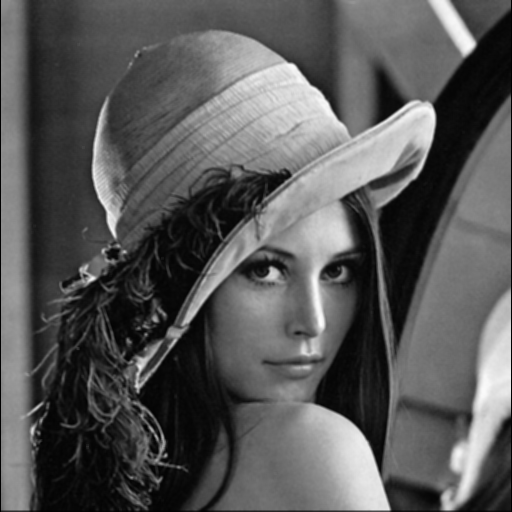
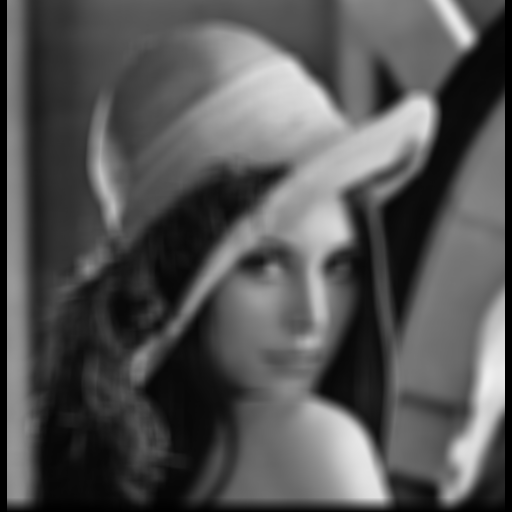
The Low Pass Filter has dynamic kernel filter size

diff --git a/LowPass.cpp b/LowPass.cpp
@@ -7,16 +7,16 @@
 using namespace cv;
 using namespace std;
 
-// #define RUN_SEQUENTIAL
+#define RUN_SEQUENTIAL
 // #define RUN_OPENMP
-#define RUN_MPI
+// #define RUN_MPI
 
 #ifdef RUN_SEQUENTIAL
 
 int main() {
 
     // Put the path of the image
-    Mat image = imread("lena.png", IMREAD_GRAYSCALE);  
+    Mat image = imread("D:/Projects/Parallel Low Pass Filter/lena.png", IMREAD_GRAYSCALE);  
     
     // Check if the image was loaded successfully
     if (image.empty()) {
@@ -25,15 +25,18 @@ int main() {
     }
 
     Mat output = image.clone();
-    int kernel[3][3] = {
-        {1, 1, 1},
-        {1, 1, 1},
-        {1, 1, 1}
-    };
 
-    int kSize = 3;
-    int kernelSum = 9;
+    int kSize;
+
+    do {
+        cout << "Enter odd kernel size : ";
+        cin >> kSize;
+    } 
+    while (kSize % 2 == 0 || kSize < 3);
+
     int pad = kSize / 2;
+    int kernelSum = kSize * kSize;
+
 
     for (int i = pad; i < image.rows - pad; ++i) {
         for (int j = pad; j < image.cols - pad; ++j) {
@@ -62,7 +65,7 @@ int main() {
 int main() {
 
     // Put the path of the image
-    Mat image = imread("lena.png", IMREAD_GRAYSCALE);
+    Mat image = imread("D:/Projects/Parallel Low Pass Filter/lena.png", IMREAD_GRAYSCALE);
 
     if (image.empty()) {
         cout << "Error: Could not open or find the image!" << endl;
@@ -70,13 +73,17 @@ int main() {
     }
 
     Mat output = image.clone();
-    int kernel[3][3] = {
-        {1, 1, 1},
-        {1, 1, 1},
-        {1, 1, 1}
-    };
 
-    int kSize = 3, pad = kSize / 2, kernelSum = 9;
+    int kSize;
+
+    do {
+        cout << "Enter odd kernel size : ";
+        cin >> kSize;
+    } while (kSize % 2 == 0 || kSize < 3);
+
+    int pad = kSize / 2;
+    int kernelSum = kSize * kSize;
+
 
 #pragma omp parallel for
 
@@ -109,16 +116,30 @@ int main(int argc, char** argv) {
     MPI_Comm_size(MPI_COMM_WORLD, &size);
 
     Mat image;
+    int kSize = 3;  // Default kernel size
+
     if (rank == 0) {
+        do {
+            cout << "Enter odd kernel size : ";
+            cin >> kSize;
+
+        } while (kSize % 2 == 0 || kSize < 3);
         
-        // Put the path of the image
-        image = imread("D:/Programming Practice/C++/High Preformance Computing/Parallel Low Pass Filter/lena.png", IMREAD_GRAYSCALE);
+
+        // Load the image in grayscale
+        image = imread("D:/Projects/Parallel Low Pass Filter/lena.png", IMREAD_GRAYSCALE);
         if (image.empty()) {
-            cout << "Error: Image not loaded!" << endl ;
+            cout << "Error: Image not loaded!" << endl;
             MPI_Abort(MPI_COMM_WORLD, -1);
         }
     }
 
+    // Broadcast the kernel size to all processes
+    MPI_Bcast(&kSize, 1, MPI_INT, 0, MPI_COMM_WORLD);
+    int pad = kSize / 2;
+    int kernelSum = kSize * kSize;
+
+    // Broadcast image dimensions
     int rows = 0, cols = 0;
     if (rank == 0) {
         rows = image.rows;
@@ -128,9 +149,7 @@ int main(int argc, char** argv) {
     MPI_Bcast(&cols, 1, MPI_INT, 0, MPI_COMM_WORLD);
 
     int local_rows = rows / size;
-    int pad = 1;
     int local_data_size = (local_rows + 2 * pad) * cols;
-
     vector<uchar> local_data(local_data_size);
     vector<uchar> result_data(local_rows * cols);
 
@@ -163,7 +182,7 @@ int main(int argc, char** argv) {
                     sum += local_data[idx];
                 }
             }
-            result_data[(i - pad) * cols + j] = sum / 9;
+            result_data[(i - pad) * cols + j] = sum / kernelSum;
         }
     }
 
@@ -177,7 +196,7 @@ int main(int argc, char** argv) {
     if (rank == 0) {
         Mat blurred(rows, cols, CV_8UC1, full_result.data());
         imwrite("blurred_mpi.png", blurred);
-        cout << "MPI Blurring done! Output saved as 'blurred_mpi.png'" << endl << endl;
+        cout << "\nMPI Blurring done! Output saved as 'blurred_mpi.png'" << endl << endl;
     }
 
     MPI_Finalize();
